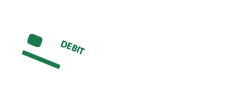
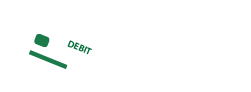
Adjust dates, disclosure, and offer amounts.

Changed region(s): [[0.0837, 0.5435, 0.2789, 0.7609], [0.2231, 0.4348, 0.3904, 0.587], [0.0837, 0.3696, 0.2231, 0.5217]]

diff --git a/apply.html b/apply.html
@@ -19,7 +19,7 @@
 		<div class="content group">
 
 			<h2 class="text-forest">Proudly Serving America's Library Community</h2>
-			<p>For over 85 years, the Library of Congress Federal Credit Union has proudly served America’s library community. We’re here to help you write your financial story. To get started, join the Credit Union that exclusively serves the library community.</p>
+			<p>For over 85 years, the Library of Congress Federal Credit Union has proudly served America's library community. We're here to help you write your financial story. To get started, join the Credit Union that exclusively serves the library community.</p>
 
 		</div>
 	
@@ -31,21 +31,21 @@
 					<div class="col-header">Open a Checking Account</div>
 					<div class="col-content">
 						<p class="pad">Open a checking account with direct deposit* and you could earn:</p>
-						<p><img src="img/col-1.png" /></p>
+						<p><img src="img/col-1.png?v=2" /></p>
 					</div>
 				</div>
 				<div class="col">
 					<div class="col-header">Finance Your Auto Loan</div>
 					<div class="col-content">
 						<p class="pad">Finance an auto loan** and you could earn:</p>
-						<p><img src="img/col-2.png" /></p>
+						<p><img src="img/col-2.png?v=2" /></p>
 					</div>
 				</div>
 				<div class="col">
 					<div class="col-header">Extra Cash For You</div>
 					<div class="col-content">
-						<p>Do both, open a checking account with direct deposit* and finance an auto loan** and you could earn a total of $200.</p>
-						<p><img src="img/col-3.png" /></p>
+						<p>Do both, open a checking account with direct deposit* and finance an auto loan** and you could earn a total of $300.</p>
+						<p><img src="img/col-3.png?v=2" /></p>
 					</div>
 				</div>
 			</div>
@@ -113,9 +113,9 @@
 		</div>
 
 		<div class="disclosure">
-			<p>*Not all applicants will qualify for membership. Member must be 18 years or older and open a savings account with a $10 deposit and open a checking account with a monthly direct deposit of at least $300 that remains open for at least 60 days to qualify for the new member incentive. The new member incentive will be paid into the member’s savings account after 90 days provided both the savings account and checking account remain open and meet the qualifications. The $100.00 new member incentive will be reported as interest income on the Form 1099-INT year-end. Other terms limitations and conditions may apply.</p>
-			<p>**For qualifying members with approved credit. Minimum loan amount is $10,000.00 and the vehicle must be a 2015 or newer model. Auto loan finance or refinance incentive will be paid into the member’s saving account after the first auto loan payment is made to the credit union on time.</p>
-			<p>Members may qualify for both offers, earning up to $200.00 in incentives. Offers are for new members only. Library of Congress FCU retains the right to cancel these offers at any time without notice.</p>
+			<p>*Not all applicants will qualify for membership. Member must be 18 years or older and open a savings account with a $10 deposit and open a checking account with a monthly direct deposit of at least $300 that remains open for at least 60 days to qualify for the new member incentive. The new member incentive will be paid into the member's savings account after 90 days provided both the savings account and checking account remain open and meet the qualifications. The $150.00 new member incentive will be reported as interest income on the Form 1099-INT year-end. Other terms limitations and conditions may apply.</p>
+			<p>**For qualifying members with approved credit. Minimum loan amount is $10,000.00 and the vehicle must be a 2015 or newer model. Auto loan finance or refinance incentive will be paid into the member's saving account after the first auto loan payment is made to the credit union on time.</p>
+			<p>Members may qualify for both offers, earning up to $300.00 in incentives. Offers are for new members only. Library of Congress FCU retains the right to cancel these offers at any time without notice.</p>
 		</div>
 
 	</main>

diff --git a/index.html b/index.html
@@ -24,27 +24,27 @@
 		</div>
 	
 		<div class="member content">
-			<h2>Your new membership could earn you up to $200*</h2>
+			<h2>Your new membership could earn you up to $300*</h2>
 			<div class="columns">
 				<div class="col">
 					<div class="col-header">Open a Checking Account</div>
 					<div class="col-content">
 						<p class="pad">Open a checking account with direct deposit* and you could earn:</p>
-						<p><img src="img/col-1.png" /></p>
+						<p><img src="img/col-1.png?v=2" /></p>
 					</div>
 				</div>
 				<div class="col">
 					<div class="col-header">Finance Your Auto Loan</div>
 					<div class="col-content">
 						<p class="pad">Finance an auto loan** and you could earn:</p>
-						<p><img src="img/col-2.png" /></p>
+						<p><img src="img/col-2.png?v=2" /></p>
 					</div>
 				</div>
 				<div class="col">
 					<div class="col-header">Extra Cash For You</div>
 					<div class="col-content">
-						<p>Do both, open a checking account with direct deposit* and finance an auto loan** and you could earn a total of $200.</p>
-						<p><img src="img/col-3.png" /></p>
+						<p>Do both, open a checking account with direct deposit* and finance an auto loan** and you could earn a total of $300.</p>
+						<p><img src="img/col-3.png?v=2" /></p>
 					</div>
 				</div>
 			</div>
@@ -97,16 +97,23 @@
 			</div>
 			<div class="content events">
 
-			<div class="entry">
-				<div class="date">May 10-12, 2023</div>
+				<div class="entry">
+					<div class="date">May 10-12, 2023</div>
 					<h3><a href="https://www.mdlib.org/content.asp?contentid=1" target="_blank">MLA|DLA Library Association Annual Conference</a></h3>
 					<a href="https://www.mdlib.org/content.asp?contentid=1" target="_blank" class="button">Learn more</a>
 					<p>We are a proud sponsor of the Maryland Library Association and Delaware Library Association Annual Conference. The 2023 conference will be held May 10-12, at the Hyatt Regency in Cambridge, Maryland.</p>
 				</div>
 				<div class="entry">
-					<h3><a href="https://2023.alaannual.org/exhibit-2023-ala-annual-conference-exhibition" target="_blank">AASL Now Accepting National Conference Proposals Deadline March 1, 2023</a></h3>
-					<a href="https://2023.alaannual.org/exhibit-2023-ala-annual-conference-exhibition" target="_blank" class="button">Learn more</a>
-					<p>The AASL National Conference is the only national conference devoted solely to the needs of school librarians. The 2023 conference will be held in Tampa, Florida October 19-21. Proposals for concurrent and research sessions will be accepted through March 1, 2023.</p>
+					<div class="date">May 31-June 2, 2023</div>
+					<h3><a href="https://njlaconference.info/" target="_blank">NJLA Annual Conference</a></h3>
+					<a href="https://njlaconference.info/" target="_blank" class="button">Learn more</a>
+					<p>Don't miss the New Jersey Library Association Annual Meeting at Harrah's in Atlantic City May 31 - June 27. We are proud to be a sponsor. Be sure to register.</p>
+				</div>
+				<div class="entry">
+					<div class="date">June 22-27, 2023</div>
+					<h3><a href="https://2023.alaannual.org/" target="_blank">ALA Annual Conference</a></h3>
+					<a href="https://2023.alaannual.org/" target="_blank" class="button">Learn more</a>
+					<p>We are a proud supporter of the ALA Annual Conference to be held in Chicago at the McCormick Place Chicago June 22- 27, 2023.</p>
 				</div>
 				<div class="entry">
 					<h3><a href="https://www.ala.org/aboutala/ukraine-library-relief-fund" target="_blank">ALA Ukraine Library Relief Fund Donations</a></h3>
@@ -133,7 +140,6 @@
 						<a href="https://www.instagram.com/libcongressfcu/" target="_blank"><img src="img/social-instagram.png"></a>
 					</div>
 				</div>
-
 			</div>
 		</div>
 
